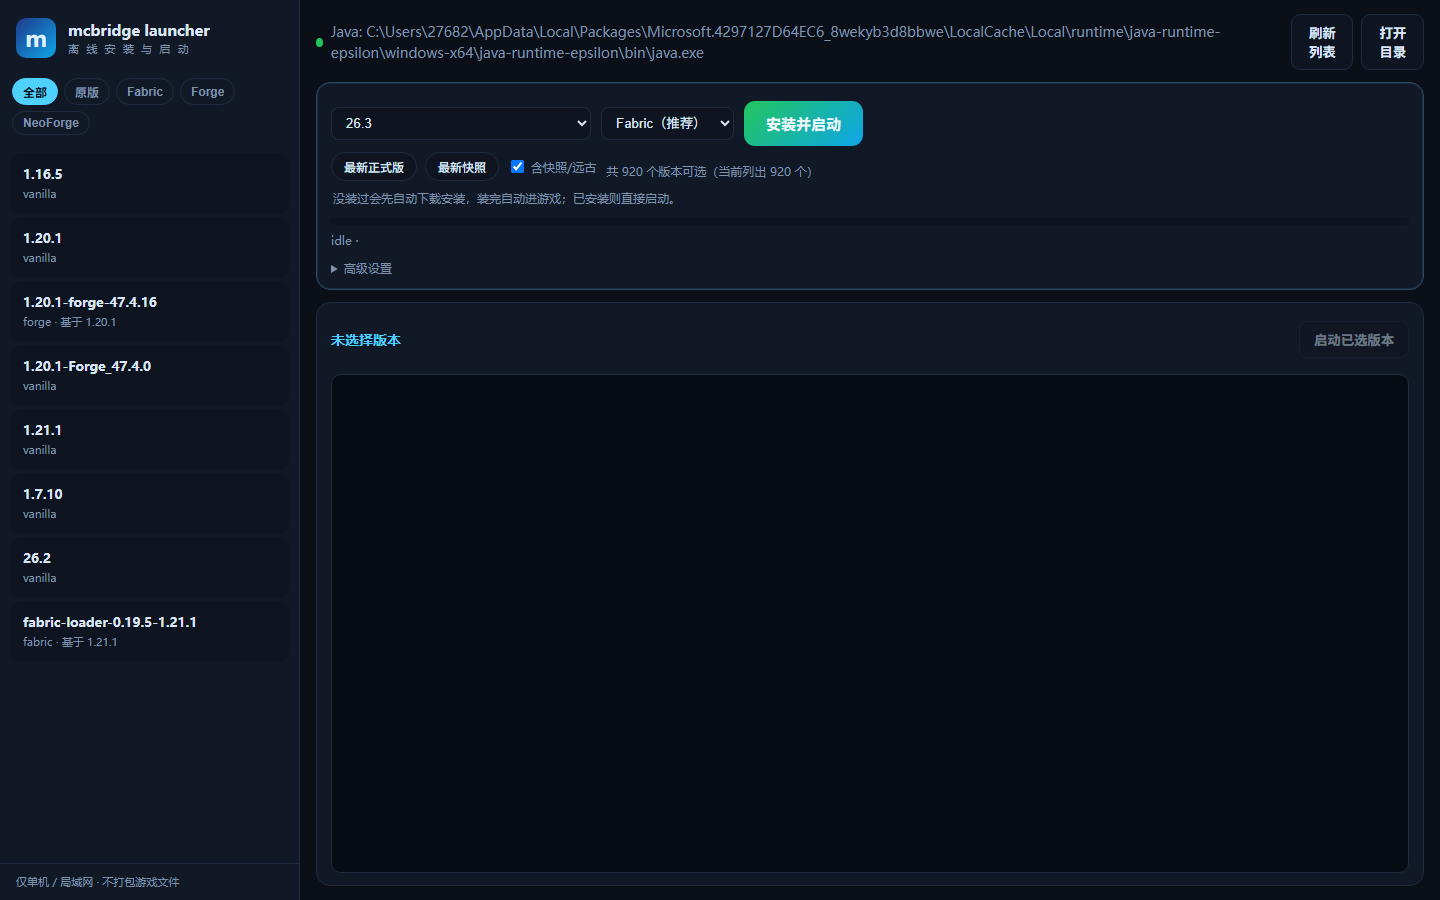
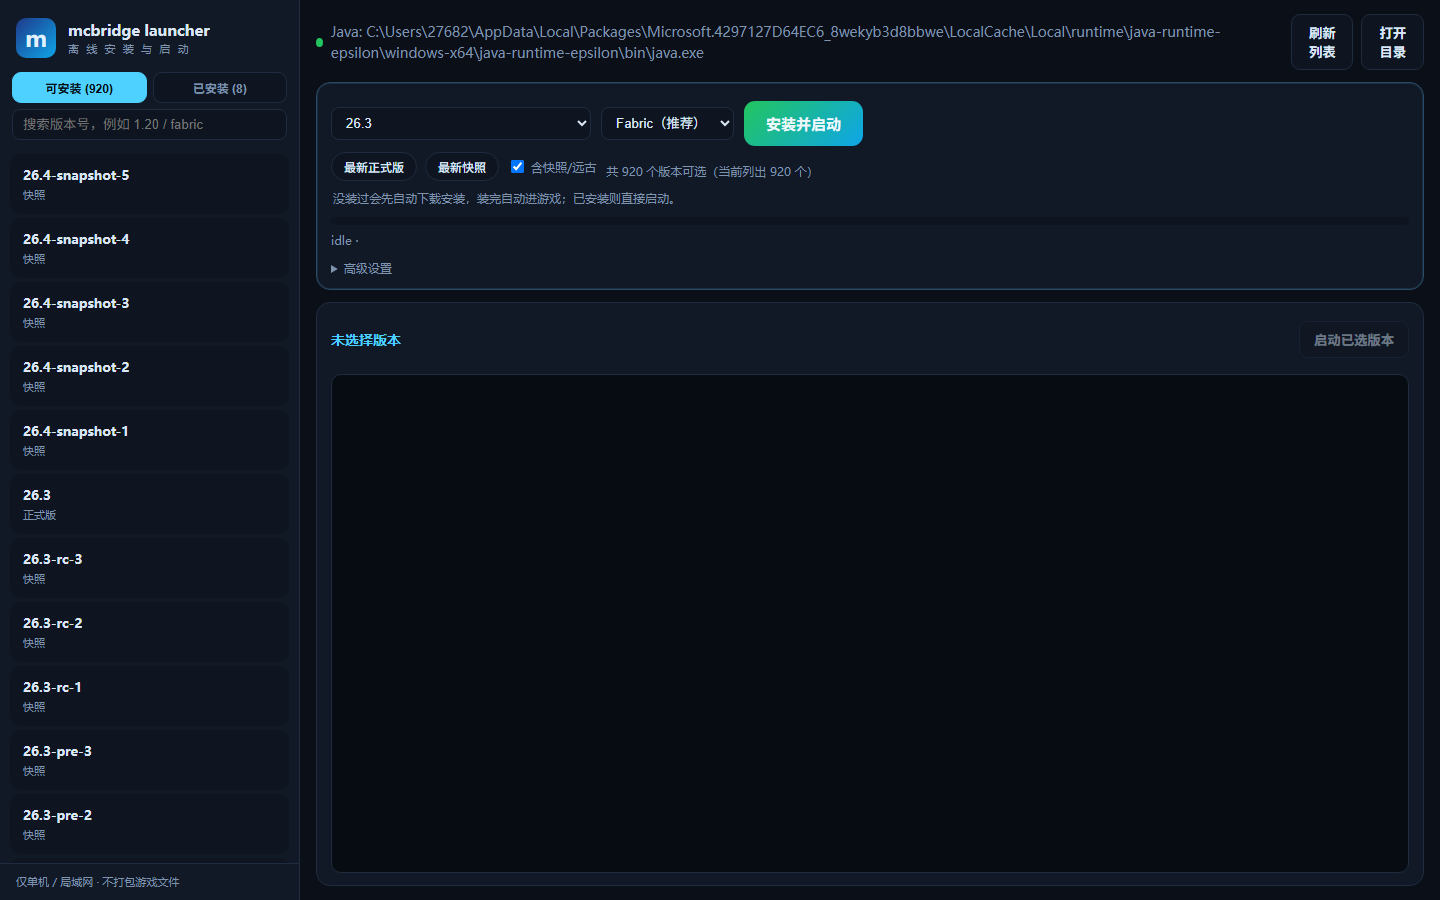
feat: browse all 920 versions in the launcher sidebar
- sidebar has 可安装/已安装 modes, a search box and an installed badge; default mode lists the full manifest

- clicking a row fills the version picker; double-click runs the one-click install-and-play flow

diff --git a/launcher/web/app.js b/launcher/web/app.js
@@ -1,4 +1,4 @@
-let state = { cfg: null, versions: [], filter: "all", selected: null, logOffset: 0, logPath: null, manifest: [], latest: {} };
+let state = { cfg: null, versions: [], mode: "installable", query: "", selected: null, logOffset: 0, logPath: null, manifest: [], latest: {} };
 let oneClickTimer = null;
 
 const $ = (id) => document.getElementById(id);
@@ -17,20 +17,57 @@ function kind(id) {
   return "vanilla";
 }
 
+function installedIds() {
+  return new Set((state.versions || []).map(v => v.id));
+}
+
 function renderVersions() {
   const list = $("verlist");
-  const items = state.versions.filter(v => state.filter === "all" || kind(v.id) === state.filter);
+  const inst = installedIds();
   list.innerHTML = "";
-  for (const v of items) {
+  const q = state.query.trim().toLowerCase();
+
+  let items;
+  if (state.mode === "installed") {
+    items = (state.versions || []).filter(v => !q || v.id.toLowerCase().includes(q));
+  } else {
+    const all = $("allsnap") && $("allsnap").checked;
+    items = (state.manifest || [])
+      .filter(v => all || v.type === "release")
+      .filter(v => !q || v.id.toLowerCase().includes(q))
+      .map(v => ({ id: v.id, type: v.type, inherits: null }));
+  }
+
+  if ($("cntInstall")) $("cntInstall").textContent = `(${(state.manifest || []).length})`;
+  if ($("cntInstalled")) $("cntInstalled").textContent = `(${(state.versions || []).length})`;
+
+  for (const v of items.slice(0, 400)) {
     const el = document.createElement("div");
     el.className = "ver" + (state.selected === v.id ? " sel" : "");
-    el.innerHTML = `<div class="id">${v.id}</div>
-      <div class="meta">${kind(v.id)}${v.inherits ? " · 基于 " + v.inherits : ""}</div>`;
-    el.onclick = () => select(v.id);
-    el.ondblclick = () => play(v.id);
+    const type = v.inherits ? kind(v.id) : (v.type === "release" ? "正式版" : (TYPE_LABEL[v.type] || v.type));
+    el.innerHTML = `<div class="id">${v.id}${inst.has(v.id) ? ' <span class="badge">已安装</span>' : ""}</div>
+      <div class="meta">${type}${v.inherits ? " · 基于 " + v.inherits : ""}</div>`;
+    el.onclick = () => {
+      state.selected = v.id;
+      if ($("mcver")) $("mcver").value = v.id;
+      $("selinfo").textContent = "已选择：" + v.id;
+      $("play").disabled = !inst.has(v.id);
+      renderVersions();
+    };
+    el.ondblclick = () => {
+      if ($("mcver")) $("mcver").value = v.id;
+      oneClick();
+    };
     list.appendChild(el);
   }
-  if (!items.length) list.innerHTML = `<div class="ver"><div class="meta">还没有安装版本，填个版本号点“安装并启动”</div></div>`;
+  if (!items.length) {
+    list.innerHTML = `<div class="ver"><div class="meta">没有匹配的版本</div></div>`;
+  } else if (items.length > 400) {
+    const more = document.createElement("div");
+    more.className = "ver";
+    more.innerHTML = `<div class="meta">还有 ${items.length - 400} 个，用搜索缩小范围</div>`;
+    list.appendChild(more);
+  }
 }
 
 function select(id) {
@@ -202,18 +239,24 @@ async function saveCfg() {
   refresh();
 }
 
-$("tabs").onclick = (e) => {
-  if (e.target.tagName !== "BUTTON") return;
-  for (const b of $("tabs").children) b.classList.remove("on");
-  e.target.classList.add("on");
-  state.filter = e.target.dataset.filter;
+$("modeInstall").onclick = () => {
+  state.mode = "installable";
+  $("modeInstall").classList.add("on");
+  $("modeInstalled").classList.remove("on");
   renderVersions();
 };
+$("modeInstalled").onclick = () => {
+  state.mode = "installed";
+  $("modeInstalled").classList.add("on");
+  $("modeInstall").classList.remove("on");
+  renderVersions();
+};
+$("verSearch").oninput = (e) => { state.query = e.target.value; renderVersions(); };
 $("refresh").onclick = refresh;
 $("save").onclick = saveCfg;
 $("install").onclick = oneClick;
 $("play").onclick = () => play();
-$("allsnap").onchange = () => renderManifest(false);
+$("allsnap").onchange = () => { renderManifest(false); renderVersions(); };
 $("pickRelease").onclick = () => { if (state.latest.release) { $("mcver").value = state.latest.release; } };
 $("pickSnapshot").onclick = () => {
   if (!state.latest.snapshot) return;

diff --git a/launcher/web/index.html b/launcher/web/index.html
@@ -15,13 +15,11 @@
         <div class="sub">离 线 安 装 与 启 动</div>
       </div>
     </div>
-    <div class="tabs" id="tabs">
-      <button data-filter="all" class="on">全部</button>
-      <button data-filter="vanilla">原版</button>
-      <button data-filter="fabric">Fabric</button>
-      <button data-filter="forge">Forge</button>
-      <button data-filter="neoforge">NeoForge</button>
+    <div class="modebar">
+      <button id="modeInstall" class="on">可安装 <span id="cntInstall"></span></button>
+      <button id="modeInstalled">已安装 <span id="cntInstalled"></span></button>
     </div>
+    <input id="verSearch" class="search" placeholder="搜索版本号，例如 1.20 / fabric">
     <div class="verlist" id="verlist"></div>
     <div class="foot">仅单机 / 局域网 · 不打包游戏文件</div>
   </aside>

diff --git a/launcher/web/style.css b/launcher/web/style.css
@@ -94,3 +94,11 @@ input.narrow { width: 90px; min-width: 90px; }
   border-radius: 999px; padding: 5px 12px; font-size: 12px; font-weight: 500; }
 .chip:hover { border-color: #3b6b8f; }
 .quick { gap: 8px; }
+
+.modebar { display: flex; gap: 6px; padding: 4px 12px 6px; }
+.modebar button { flex: 1; background: var(--panel2); border: 1px solid var(--line); color: var(--dim);
+  border-radius: 9px; padding: 6px 8px; font-size: 12px; }
+.modebar button.on { color: #031018; background: var(--accent); border-color: var(--accent); font-weight: 700; }
+.search { margin: 0 12px 6px; width: calc(100% - 24px); }
+.badge { background: rgba(34,197,94,.18); color: #86efac; border: 1px solid rgba(34,197,94,.4);
+  border-radius: 999px; padding: 1px 7px; font-size: 10px; margin-left: 6px; }
